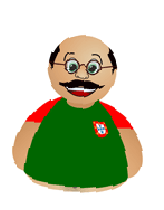
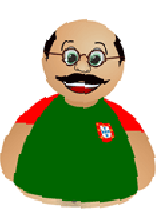
'correcção do bonecos apenas para IE'

diff --git a/border.html b/border.html
@@ -1,82 +1,21 @@
-<!DOCTYPE html PUBLIC "-//W3C//DTD XHTML 1.0 Strict//EN" "http://www.w3.org/TR/xhtml1/DTD/xhtml1-strict.dtd">
-<html xmlns="http://www.w3.org/1999/xhtml">
-<head>
+<div>
+    <a href="http://www.moneyexpress.pt/livezilla/chat.php" target="_blank" >
+        <img id="manel" style="border:0px;width: 75px;height: 100px;" 
+             src="imagens/manel.png" 
+             onmouseover=estica("manel"); 
+             onmouseout="encolhe("manel");>
+             <img id="texto"
+             style="border:0px;width: 140px;height: 100px;"
+             src="imagens/texto.png"
+             onmouseover=estica("texto");
+             onmouseout=encolhe("texto");>
+             <img id="maria" 
+                  style="border:0px;width: 75px;height: 100px;"
+                  src="imagens/maria.png" 
+                  onmouseover=estica("maria");
+                  onmouseout=encolhe("maria");>
+    </a>
+</div>
 
-<style type="text/css">
-body {
-	background-color: #fff;
-	font: normal 11pt Trebuchet MS,Arial,sans-serif;
-}
 
-.box1 {
-	background-color: #f0f0f0;
-	width: 533px;
-	height: 50px;
-	margin: 0 auto 15px auto;
-	padding: 30px;
-	border: 1px solid #d7d7d7;
-
-	-moz-border-radius: 11px;
-	-webkit-border-radius: 11px;
-	border-radius: 11px;
-	behavior: url(border-radius.htc);
-}
-
-.box2 {
-	background: transparent url(ashera.jpg); no-repeat top left;
-	width: 420px;
-	height: 220px;
-	margin: 0 auto 35px auto;
-	padding: 30px;
-	color: #fff;
-	font-weight: bold;
-	border: 11px solid #35b70e;
-
-	-moz-border-radius: 32px;
-	-webkit-border-radius: 32px;
-	border-radius: 32px;
-	behavior: url(border-radius.htc);
-}
-
-.box3 {
-	background-color: #ddd;
-	width: 210px;
-	height: 30px;
-	padding: 20px;
-	position: absolute;
-	top: 5px; left: 5px;
-
-	-moz-border-radius: 15px;
-	-webkit-border-radius: 15px;
-	border-radius: 15px;
-	behavior: url(border-radius.htc);
-}
-
-.rel {
-	margin: 50px 0 0 33px;
-	padding: 25px;
-	position: relative;
-	z-index: inherit;
-	zoom: 1; /* For IE6 */
-}
-
-</style>
-</head>
-
-<body>
-<h1><a href="http://www.htmlremix.com/css/curved-corner-border-radius-cross-browser" title="">Rounded corner / Curved corner divs using CSS 3 in all browsers</a></h1>
-<p>Not just divs, but any element*</p>
-	<div class="rel">
-		<div class="box1">
-			lorem ipsum dolor sit amet lorem ipsum dolor sit amet lorem ipsum dolor sit amet lorem ipsum dolor sit amet 
-		</div>
-		<div class="box2">
-			this cat is a hybrid of domestic and wild breeds :)
-		</div>
-		<div class="box3">
-			this box is absolutely positioned
-		</div>
-	</div>
-</body>
-</html>
-
+<div><a href="http://www.moneyexpress.pt/livezilla/chat.php" target="_blank" ><img id="manel" style="border:0px;width: 75px;height: 100px;" src="imagens/manel.png" onmouseover=estica("manel") onmouseout=encolhe("manel")><img id="texto" style="border:0px;width: 140px;height: 100px;" src="imagens/texto.png" onmouseover=estica("texto") onmouseout=encolhe("texto")><img id="maria" style="border:0px;width: 75px;height: 100px;" src="imagens/maria.png" onmouseover=estica("maria") onmouseout=encolhe("maria")></a></div>

diff --git a/common/common.php b/common/common.php
@@ -1,6 +1,6 @@
 <?php
 
-define('producao', true);
+define('producao', false);
 
 require_once 'Functions.php';
 require_once 'Init.php';
